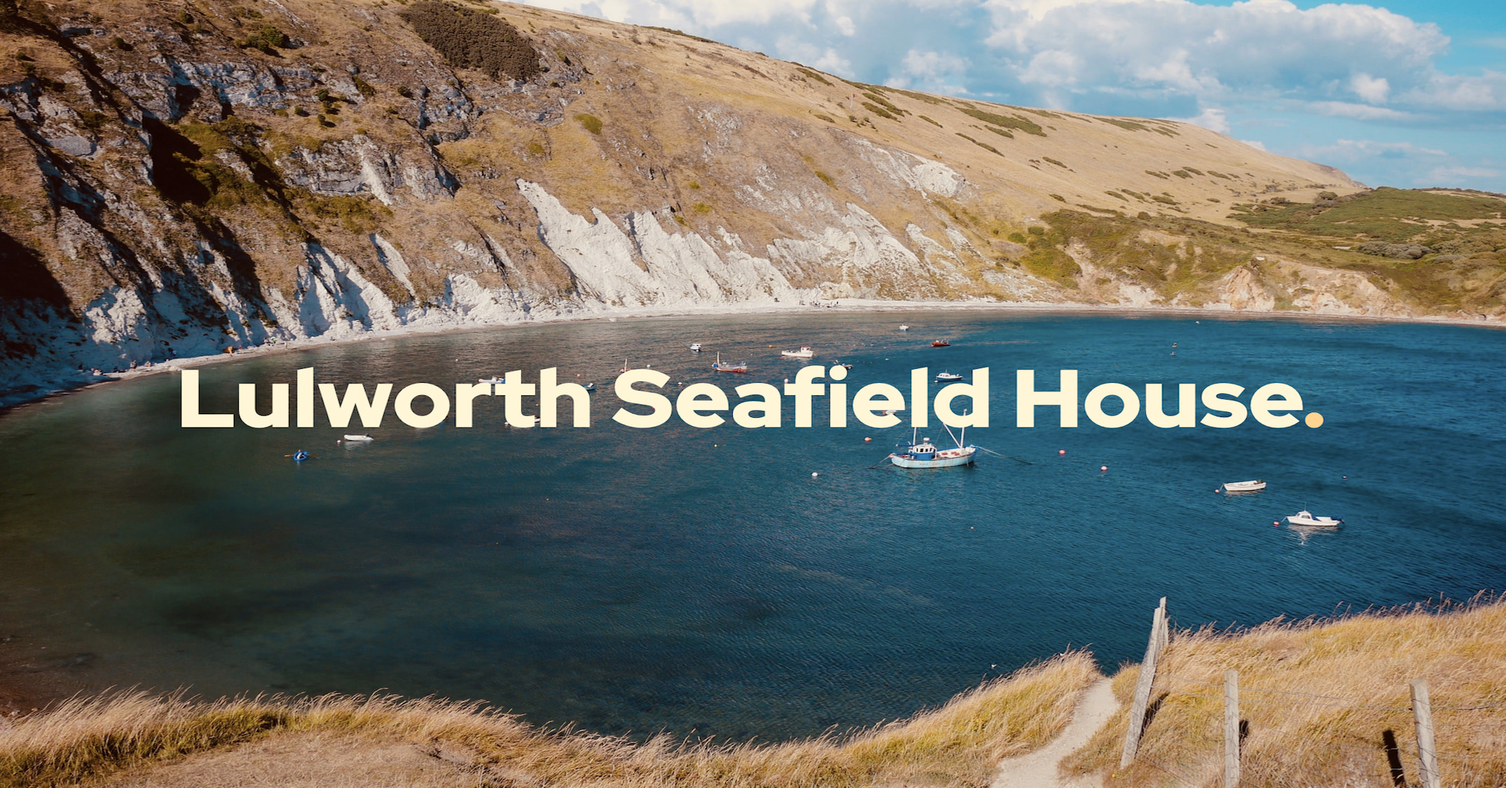
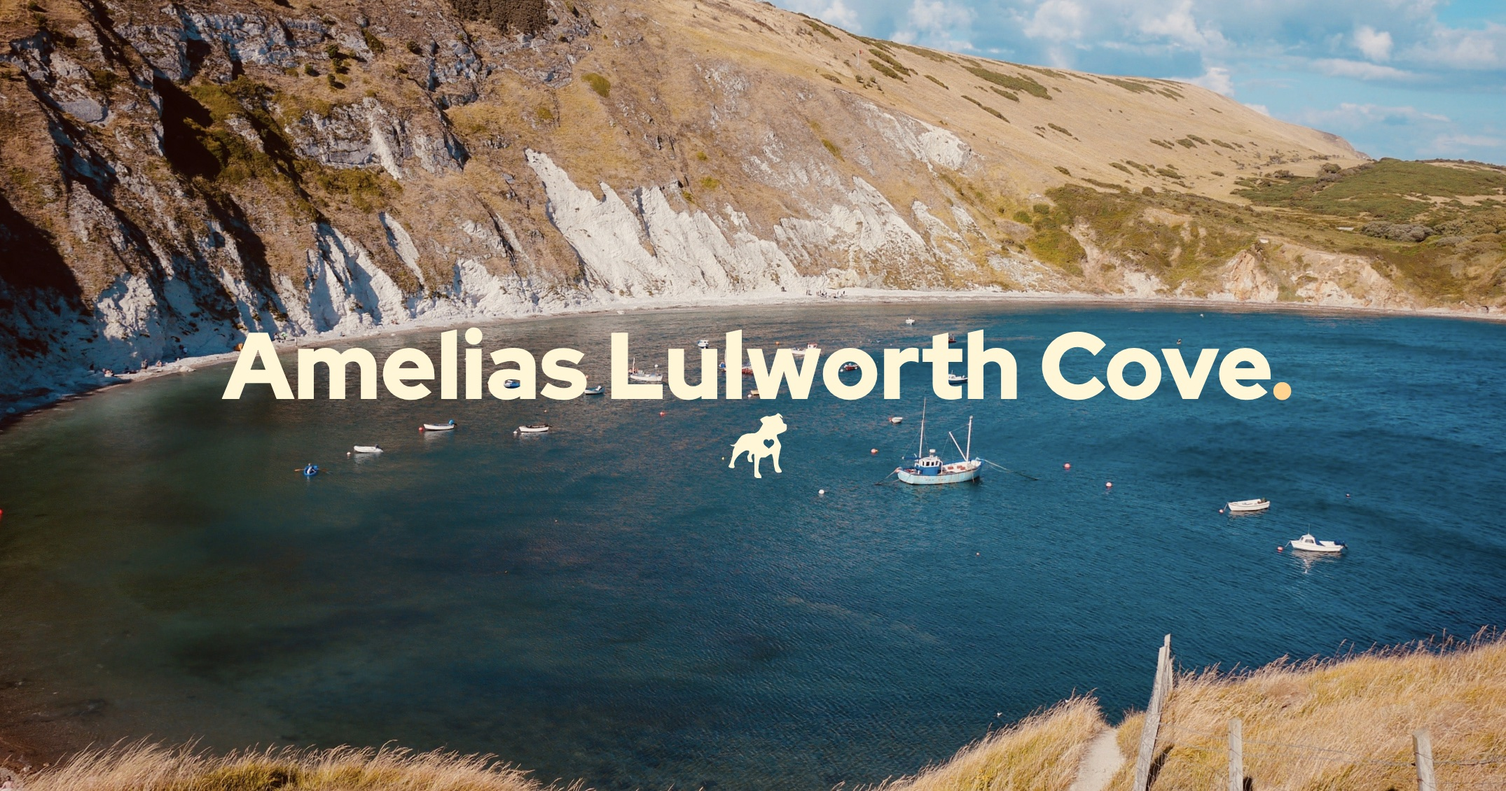
fixed social image

diff --git a/public/index.html b/public/index.html
@@ -28,4 +28,34 @@ c7 171 23 368 31 381 4 6 11 52 16 103 18 198 43 271 118 350 l26 28 161 0
 c20 -15 44 -43 55 -64 l18 -36 16 30 c32 61 104 104 174 104 81 -1 171 -69
 192 -147 36 -128 -17 -246 -156 -351 -43 -31 -110 -88 -150 -126 l-73 -69 -37
 38 c-21 21 -72 62 -113 93 -118 86 -206 182 -225 244 -31 106 -15 198 45 258
-47 47 85 60 162 57 43 -3 64 -9 92 -31z"/></g></svg></a><ul><li><a href="/" aria-current="page">Home</a></li><li><a href="/house/">House</a></li><li><a href="/lulworth/">Lulworth</a></li><li><a href="/contact/">Contact</a></li></ul></nav><h1 class="headline color-light-shade" data-highlight="tertiary">Amelias Lulworth Cove</h1></header><main class="index-main" id="main-content"></main><footer class="site-footer gap-top-600"><ul><li><a href="https://www.visit-dorset.com/" onclick="window.open('https://www.visit-dorset.com/'); return false;"><img src="https://lulworth.com/wp-content/uploads/2018/11/visit-dorset.png"></a></li><li><a href="https://whc.unesco.org/en/list/1029" onclick="window.open('https://whc.unesco.org/en/list/1029'); return false;"><img src="https://lulworth.com/wp-content/uploads/2018/11/Logo_UNESCO.png"></a></li><li><a href="" target="_blank"><img src="https://lulworth.com/wp-content/uploads/2018/08/LE_NEW_LOGO_straight_2016_BLUE_rgb.png"></a></li><li><a href="https://jurassiccoast.org/about/the-jurassic-coast-trust/" onclick="window.open('https://jurassiccoast.org/about/the-jurassic-coast-trust/'); return false;"><img src="https://lulworth.com/wp-content/uploads/2018/11/jc_mainlogobw.jpg"></a></li><li><a href="https://www.visitengland.com/" onclick="window.open('https://www.visitengland.com/'); return false;"><img src="https://lulworth.com/wp-content/uploads/2018/11/visit-england.jpg"></a></li><li><a href="https://jurassiccoast.org/" onclick="window.open('https://jurassiccoast.org/'); return false;"><img src="https://lulworth.com/wp-content/uploads/2019/06/JCT-Logo-Business-Partners-CMYK-1.png"></a></li></ul><p><a href="mailto:mrobinson@oneconference.co.uk?subject=Lulworth House">&copy M. Robinson 2021 - Contact Us</a></p></footer></div></body></html>
+47 47 85 60 162 57 43 -3 64 -9 92 -31z"/></g></svg></a><ul><li><a href="/" aria-current="page">Home</a></li><li><a href="/house/">House</a></li><li><a href="/lulworth/">Lulworth</a></li><li><a href="/contact/">Contact</a></li></ul></nav><div class="site-title"><h1 class="headline color-light-shade" data-highlight="tertiary">Amelias Lulworth Cove</h1><a href="/" aria-label="Amelias Lulworth Cove - home" class="hidden-logo"> <?xml version="1.0" standalone="no"?> <!doctype html> <svg version="1.0" xmlns="http://www.w3.org/2000/svg" width="436.000000pt" height="480.000000pt" viewBox="0 0 436.000000 480.000000" preserveAspectRatio="xMidYMid meet"><metadata>Created by potrace 1.16, written by Peter Selinger 2001-2019</metadata><g transform="translate(0.000000,480.000000) scale(0.100000,-0.100000)"><path d="M3545 4738 c-76 -76 -123 -108 -160 -108 -31 0 -235 -49 -287 -69
+-13 -5 -49 -12 -80 -16 -45 -6 -65 -3 -103 14 -103 45 -196 23 -415 -101 -169
+-95 -184 -109 -176 -156 6 -42 74 -146 144 -223 29 -31 52 -62 52 -69 0 -19
+-148 -278 -228 -398 -91 -137 -135 -176 -272 -245 l-105 -52 -260 -6 c-293 -7
+-299 -8 -544 -107 -112 -46 -131 -57 -188 -114 -94 -92 -201 -229 -269 -342
+-70 -118 -164 -222 -231 -256 -55 -29 -127 -32 -232 -13 -36 7 -67 10 -70 8
+-9 -10 54 -66 103 -90 40 -20 65 -25 127 -25 119 0 121 -9 28 -207 -55 -117
+-79 -221 -79 -340 0 -116 -12 -174 -90 -428 -32 -104 -67 -217 -76 -250 -11
+-36 -39 -90 -71 -135 -67 -94 -73 -113 -42 -146 60 -64 147 -94 272 -94 88 0
+89 0 123 34 19 19 34 44 34 56 0 12 -12 61 -26 109 -33 106 -32 142 6 257 102
+304 499 705 813 820 38 13 66 16 138 11 122 -8 129 -14 129 -124 0 -94 -13
+-129 -83 -223 -52 -69 -57 -118 -28 -250 41 -184 46 -194 93 -218 80 -39 179
+-51 248 -30 46 15 51 35 22 83 -10 17 -34 75 -52 129 -30 91 -32 105 -26 180
+7 83 28 133 76 184 23 24 77 30 110 12 19 -10 19 -35 20 -811 0 -580 3 -807
+12 -822 25 -48 124 -112 220 -142 60 -19 101 -25 168 -25 86 0 90 1 107 27 22
+33 22 123 1 173 -9 19 -39 67 -68 105 -29 39 -73 112 -97 163 l-45 93 5 127
+c7 171 23 368 31 381 4 6 11 52 16 103 18 198 43 271 118 350 l26 28 161 0
+162 0 184 125 c169 115 188 125 230 125 55 0 79 -21 79 -68 0 -18 13 -81 29
+-140 41 -150 51 -203 73 -402 31 -291 35 -312 62 -396 14 -45 29 -110 33 -145
+5 -53 12 -72 42 -111 71 -91 152 -119 310 -105 100 9 151 41 151 95 0 22 -46
+106 -105 192 -46 68 -115 203 -115 227 0 10 -7 36 -15 58 -25 71 -20 341 10
+525 14 85 30 173 36 195 5 22 25 124 44 226 19 102 48 223 64 269 39 105 40
+170 7 260 -25 67 -47 109 -174 338 -115 205 -146 323 -106 392 15 24 35 33
+148 66 154 45 418 172 491 236 72 63 75 75 75 257 0 88 -3 167 -6 176 -8 21
+-63 47 -147 71 -65 18 -69 21 -96 69 -15 28 -36 77 -46 110 -29 98 -63 154
+-141 236 -52 54 -74 85 -74 103 0 47 22 40 84 -27 57 -61 64 -66 91 -59 47 13
+44 43 -14 120 -62 83 -108 128 -189 181 -86 56 -112 54 -177 -11z m-671 -1892
+c20 -15 44 -43 55 -64 l18 -36 16 30 c32 61 104 104 174 104 81 -1 171 -69
+192 -147 36 -128 -17 -246 -156 -351 -43 -31 -110 -88 -150 -126 l-73 -69 -37
+38 c-21 21 -72 62 -113 93 -118 86 -206 182 -225 244 -31 106 -15 198 45 258
+47 47 85 60 162 57 43 -3 64 -9 92 -31z"/></g></svg></a></div></header><main class="index-main" id="main-content"></main><footer class="site-footer gap-top-600"><ul><li><a href="https://www.visit-dorset.com/" onclick="window.open('https://www.visit-dorset.com/'); return false;"><img src="https://lulworth.com/wp-content/uploads/2018/11/visit-dorset.png"></a></li><li><a href="https://whc.unesco.org/en/list/1029" onclick="window.open('https://whc.unesco.org/en/list/1029'); return false;"><img src="https://lulworth.com/wp-content/uploads/2018/11/Logo_UNESCO.png"></a></li><li><a href="" target="_blank"><img src="https://lulworth.com/wp-content/uploads/2018/08/LE_NEW_LOGO_straight_2016_BLUE_rgb.png"></a></li><li><a href="https://jurassiccoast.org/about/the-jurassic-coast-trust/" onclick="window.open('https://jurassiccoast.org/about/the-jurassic-coast-trust/'); return false;"><img src="https://lulworth.com/wp-content/uploads/2018/11/jc_mainlogobw.jpg"></a></li><li><a href="https://www.visitengland.com/" onclick="window.open('https://www.visitengland.com/'); return false;"><img src="https://lulworth.com/wp-content/uploads/2018/11/visit-england.jpg"></a></li><li><a href="https://jurassiccoast.org/" onclick="window.open('https://jurassiccoast.org/'); return false;"><img src="https://lulworth.com/wp-content/uploads/2019/06/JCT-Logo-Business-Partners-CMYK-1.png"></a></li></ul><p><a href="mailto:mrobinson@oneconference.co.uk?subject=Lulworth House">&copy M. Robinson 2021 - Contact Us</a></p></footer></div></body></html>

diff --git a/src/sass/main.scss b/src/sass/main.scss
@@ -236,7 +236,7 @@ article .summary {
   height: 100%;
 }
 
-.contact-paage .email img {
+.contact-page .email img {
   height: auto;
 }
 
@@ -251,4 +251,14 @@ article .summary {
 .lulworth-page .logo,
 .contact-page .logo {
   fill: get-color('dark-shade');
+}
+
+.index-page .site-title {
+  text-align: center;
+}
+
+.index-page .site-title svg {
+  fill: get-color('light-shade');
+  width: 2em;
+  height: auto;
 }
